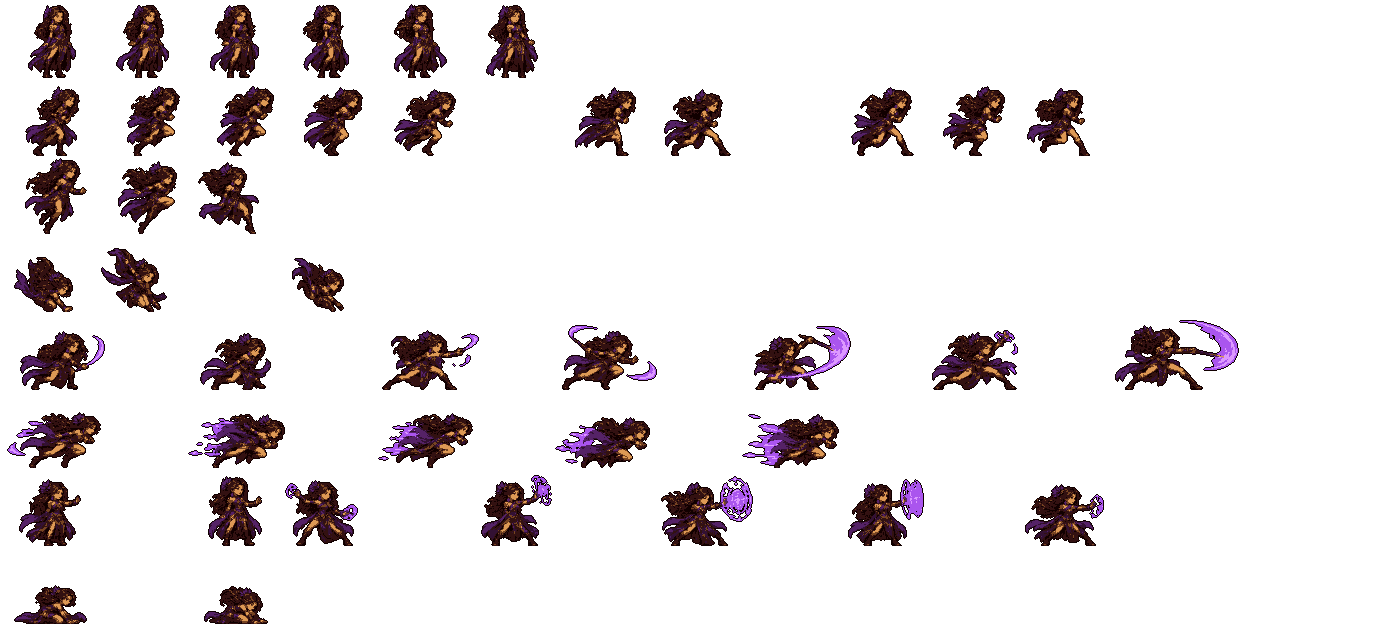
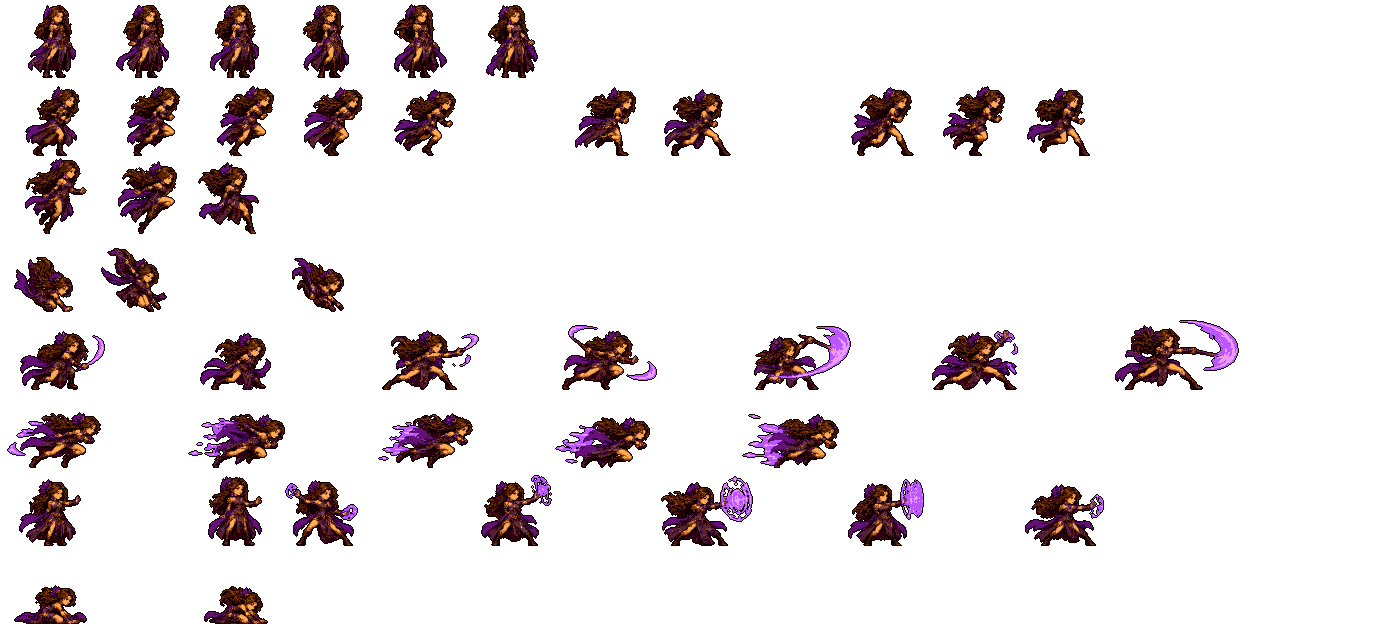
fix(sprites): brighten hero hi-8bit with a colour grade
The hi-8bit tier of the painted heroes (2x average, 8 colours) came out dark and muddy:
faces washed out and the dark coat merged into brown. Add an optional per-tier `tune`
(gamma, contrast, saturation) applied to the downscaled RGB before the palette is built,
deterministic and alpha-preserving; defaults change nothing.

Valen and Aurelia grade hi-8bit only (gamma 0.8, contrast 1.15, saturation 1.2) and use
12 hi-8bit colours. hi-16bit sheets are byte-identical to before.

diff --git a/scripts/__tests__/heroPainted.test.ts b/scripts/__tests__/heroPainted.test.ts
@@ -7,7 +7,7 @@ import { defineHeroSprite } from "../sprites/defineHeroSprite";
 import { measure } from "../sprites/frameStats";
 import { extractPaintedFrames, footColumn, loadPaintedFiles, paletteOf, renderPaintedHero } from "../sprites/paintedHero";
 import { TRANSPARENT } from "../sprites/pixelCanvas";
-import { buildPalette, downscale2x, remapColor, thresholdAlpha, unpack } from "../sprites/quantize";
+import { buildPalette, type ColorTune, downscale2x, remapColor, thresholdAlpha, tuneColors, unpack } from "../sprites/quantize";
 import sampleHero from "../sprites/__fixtures__/sample_hero";
 import {
   aPaintedHero,
@@ -332,5 +332,102 @@ describe("painted hero hooks and contracts", () => {
 
     // Assert
     expect([...half.data]).toEqual([150, 0, 0, 128]);
+  });
+});
+
+describe("painted hero colour tuning", () => {
+  const grey = (value: number) => ({ width: 1, height: 1, data: new Uint8Array([value, value, value, 255]) });
+  const tuned = (tune: { hi8bit?: ColorTune; hi16bit?: ColorTune }) => aPaintedHero({ tune });
+
+  it("should produce identical hi-8bit bytes when a tuned hero is compiled twice", () => {
+    // Arrange
+    const def = tuned({ hi8bit: { gamma: 0.8, contrast: 1.15, saturation: 1.2 } });
+
+    // Act
+    const first = compile(def);
+    const second = compile(def);
+
+    // Assert
+    expect(Buffer.compare(second.hi8bitPng, first.hi8bitPng)).toBe(0);
+    expect(second.metaJson).toBe(first.metaJson);
+  });
+
+  it("should brighten the mid tones with a gamma below one and keep black and white", () => {
+    // Arrange
+    const mid = grey(100);
+    const black = { width: 1, height: 1, data: new Uint8Array([0, 0, 0, 255]) };
+    const white = { width: 1, height: 1, data: new Uint8Array([255, 255, 255, 255]) };
+
+    // Act
+    const brighter = tuneColors(mid, { gamma: 0.8 }).data[0];
+    const darker = tuneColors(mid, { gamma: 1.25 }).data[0];
+
+    // Assert
+    expect(brighter).toBeGreaterThan(100);
+    expect(darker).toBeLessThan(100);
+    expect(tuneColors(black, { gamma: 0.8 }).data[0]).toBe(0);
+    expect(tuneColors(white, { gamma: 0.8 }).data[0]).toBe(255);
+  });
+
+  it("should spread colours away from mid grey with contrast and collapse them with saturation zero", () => {
+    // Arrange
+    const light = grey(200);
+    const vivid = { width: 1, height: 1, data: new Uint8Array([200, 100, 50, 255]) };
+
+    // Act
+    const stretched = tuneColors(light, { contrast: 1.5 }).data[0];
+    const flat = tuneColors(vivid, { saturation: 0 });
+
+    // Assert
+    expect(stretched).toBeGreaterThan(200);
+    expect(flat.data[0]).toBe(flat.data[1]);
+    expect(flat.data[1]).toBe(flat.data[2]);
+  });
+
+  it("should leave the alpha channel and the image untouched when no option is set", () => {
+    // Arrange
+    const image = { width: 1, height: 1, data: new Uint8Array([10, 20, 30, 77]) };
+
+    // Act
+    const same = tuneColors(image, {});
+    const explicit = tuneColors(image, { gamma: 1, contrast: 1, saturation: 1 });
+
+    // Assert
+    expect(same).toBe(image);
+    expect(explicit).toBe(image);
+  });
+
+  it("should give the same sheets as an untuned hero when every tune value is the default", () => {
+    // Arrange
+    const plain = compile();
+
+    // Act
+    const defaults = compile(tuned({ hi8bit: {}, hi16bit: { gamma: 1, contrast: 1, saturation: 1 } }));
+
+    // Assert
+    expect(Buffer.compare(defaults.hi8bitPng, plain.hi8bitPng)).toBe(0);
+    expect(Buffer.compare(defaults.hi16bitPng, plain.hi16bitPng)).toBe(0);
+  });
+
+  it("should grade only the hi-8bit tier and leave the hi-16bit sheet byte-identical", () => {
+    // Arrange
+    const plain = compile();
+
+    // Act
+    const graded = compile(tuned({ hi8bit: { gamma: 0.8, contrast: 1.15, saturation: 1.2 } }));
+
+    // Assert
+    expect(Buffer.compare(graded.hi16bitPng, plain.hi16bitPng)).toBe(0);
+    expect(Buffer.compare(graded.hi8bitPng, plain.hi8bitPng)).not.toBe(0);
+  });
+
+  it("should reject a grade with a non-positive gamma or a negative contrast", () => {
+    // Arrange & Act
+    const badGamma = () => tuned({ hi8bit: { gamma: 0 } });
+    const badContrast = () => tuned({ hi8bit: { contrast: -1 } });
+
+    // Assert
+    expect(badGamma).toThrow(/source.tune.hi8bit needs gamma > 0/);
+    expect(badContrast).toThrow(/source.tune.hi8bit needs gamma > 0/);
   });
 });

diff --git a/scripts/sprites/quantize.ts b/scripts/sprites/quantize.ts
@@ -26,6 +26,19 @@ export interface HueRemap {
   saturation?: number;
 }
 
+/**
+ * colour grading of one tier's painted pixels, applied after the downscale and before the palette is built. a missing
+ * or default value leaves that step out, so `{}` changes nothing. applied in the order saturation, contrast, gamma.
+ */
+export interface ColorTune {
+  /** power of each channel (0..1 scale): below 1 brightens the mid tones, above 1 darkens them. default 1. */
+  gamma?: number;
+  /** stretch around mid grey (128): above 1 adds contrast, 0 flattens to grey. default 1. */
+  contrast?: number;
+  /** distance from the luma: 0 is greyscale, 1 unchanged, above 1 more vivid. default 1. */
+  saturation?: number;
+}
+
 export type Rgb = [number, number, number];
 
 export const unpack = (rgb: number): Rgb => [(rgb >> 16) & 0xff, (rgb >> 8) & 0xff, rgb & 0xff];
@@ -77,6 +90,27 @@ export function downscale2x(image: RgbaImage): RgbaImage {
     }
   }
   return { width, height, data };
+}
+
+const clampByte = (value: number): number => Math.min(255, Math.max(0, Math.round(value)));
+
+/** grades the rgb of an image with saturation, contrast and gamma; alpha is kept. returns the input itself when nothing is set. */
+export function tuneColors(image: RgbaImage, tune: ColorTune): RgbaImage {
+  const gamma = tune.gamma ?? 1;
+  const contrast = tune.contrast ?? 1;
+  const saturation = tune.saturation ?? 1;
+  if (gamma === 1 && contrast === 1 && saturation === 1) return image;
+  const data = new Uint8Array(image.data);
+  for (let i = 0; i < data.length; i += 4) {
+    const luma = LUMA[0] * data[i] + LUMA[1] * data[i + 1] + LUMA[2] * data[i + 2];
+    for (let c = 0; c < 3; c++) {
+      const saturated = luma + (data[i + c] - luma) * saturation;
+      const contrasted = (saturated - 128) * contrast + 128;
+      const unit = Math.min(1, Math.max(0, contrasted / 255));
+      data[i + c] = clampByte(255 * unit ** gamma);
+    }
+  }
+  return { width: image.width, height: image.height, data };
 }
 
 /** Packed 0xRRGGBB for opaque pixels (alpha >= 50 %), TRANSPARENT otherwise. */

diff --git a/scripts/sprites/paintedHero.ts b/scripts/sprites/paintedHero.ts
@@ -19,9 +19,11 @@ import {
   ALPHA_CUTOFF,
   applyPalette,
   buildPalette,
+  type ColorTune,
   downscale2x,
   remapColor,
   thresholdAlpha,
+  tuneColors,
 } from "./quantize";
 import { toHex } from "./colors";
 import type { Tier } from "./types";
@@ -231,10 +233,20 @@ export function renderPaintedHero(def: HeroSpriteDefinition, grid: HeroGrid, fil
   const fitted = fitPaintedGrid(grid, frames);
   const cell = heroCell(fitted, "hi16bit");
   const slots16 = frames.map((f) => ({ anim: f.anim, frame: f.frame, span: f.span, rgba: placeFrame(f, cell, fitted.anchorX ?? 0) }));
-  const slots8 = slots16.map((slot) => ({ ...slot, rgba: downscale2x(slot.rgba) }));
-  const hi16bit = renderTier(def, source, fitted, "hi16bit", slots16);
+  // hi-8bit is always derived from the untuned 1:1 frames, so grading one tier never changes the other one's shape.
+  const slots8 = gradeSlots(
+    slots16.map((slot) => ({ ...slot, rgba: downscale2x(slot.rgba) })),
+    source.tune?.hi8bit,
+  );
+  const hi16bit = renderTier(def, source, fitted, "hi16bit", gradeSlots(slots16, source.tune?.hi16bit));
   const hi8bit = renderTier(def, source, fitted, "hi8bit", slots8);
   return { grid: fitted, hi8bit, hi16bit };
+}
+
+/** applies a tier's colour grade to every slot; without a grade the slots are returned as they are. */
+function gradeSlots<T extends Slot & { rgba: RgbaImage }>(slots: readonly T[], tune: ColorTune | undefined): T[] {
+  if (!tune) return [...slots];
+  return slots.map((slot) => ({ ...slot, rgba: tuneColors(slot.rgba, tune) }));
 }
 
 /** Distinct colours used by a rendered tier, sorted by value. */

diff --git a/scripts/sprites/heroTypes.ts b/scripts/sprites/heroTypes.ts
@@ -1,6 +1,6 @@
 import type { RgbaImage } from "../lib/png";
 import type { PixelCanvas } from "./pixelCanvas";
-import type { HueRemap } from "./quantize";
+import type { ColorTune, HueRemap } from "./quantize";
 import type { Tier } from "./types";
 
 export interface HeroAnimationGrid {
@@ -47,6 +47,11 @@ export interface PaintedSource {
   dither?: false;
   /** Hue remaps applied to the painted colours before the palettes are built (first match wins). */
   remap?: HueRemap[];
+  /**
+   * colour grading per tier, applied to that tier's pixels before its palette is built. hi-8bit is graded after the
+   * 2x downscale (readability at low depth); hi-16bit is graded on the 1:1 frames. omitted or default values change nothing.
+   */
+  tune?: { hi8bit?: ColorTune; hi16bit?: ColorTune };
   /** Painted sheet to use instead of `<id>_level_1_high_packed.png` (tests). */
   image?: RgbaImage;
   /** Painted frame rects to use instead of the `frameRects` of the packed meta (tests). */

diff --git a/scripts/sprites/heroes/valen.ts b/scripts/sprites/heroes/valen.ts
@@ -6,10 +6,12 @@ import { defineHeroSprite } from "../defineHeroSprite";
 // (minValue keeps the dark shades out of the remap).
 export default defineHeroSprite({
   id: "valen",
-  description: "Valen, the scarlet-blade duelist, quantized from his painted frames to a hard-edged 16-colour hi-16bit and 8-colour hi-8bit palette.",
+  description: "Valen, the scarlet-blade duelist, quantized from his painted frames to a hard-edged 16-colour hi-16bit and 12-colour hi-8bit palette.",
   source: {
     kind: "painted",
-    colors: { hi16bit: 16, hi8bit: 8 },
+    colors: { hi16bit: 16, hi8bit: 12 },
     remap: [{ hue: [180, 260], toHue: 40, minSaturation: 0.3, minValue: 0.45 }],
+    // hi-8bit only: brighter mids so the skin reads, a firmer contrast so the navy coat stands off the brown boots.
+    tune: { hi8bit: { gamma: 0.8, contrast: 1.15, saturation: 1.2 } },
   },
 });

diff --git a/scripts/sprites/heroes/aurelia.ts b/scripts/sprites/heroes/aurelia.ts
@@ -4,9 +4,11 @@ import { defineHeroSprite } from "../defineHeroSprite";
 // Her painted magic is purple and the purple also dresses her, so there is no remap: colours stay as painted.
 export default defineHeroSprite({
   id: "aurelia",
-  description: "Aurelia, the arcane duelist, quantized from her painted frames to a hard-edged 16-colour hi-16bit and 8-colour hi-8bit palette.",
+  description: "Aurelia, the arcane duelist, quantized from her painted frames to a hard-edged 16-colour hi-16bit and 12-colour hi-8bit palette.",
   source: {
     kind: "painted",
-    colors: { hi16bit: 16, hi8bit: 8 },
+    colors: { hi16bit: 16, hi8bit: 12 },
+    // hi-8bit only: brighter mids so the skin reads, a firmer contrast so the purple dress stands off the brown hair.
+    tune: { hi8bit: { gamma: 0.8, contrast: 1.15, saturation: 1.2 } },
   },
 });

diff --git a/scripts/sprites/defineHeroSprite.ts b/scripts/sprites/defineHeroSprite.ts
@@ -16,6 +16,12 @@ function assertPaintedSource(id: string, def: HeroSpriteDefinition): void {
     throw spriteError(`Hero "${id}": dithering is not implemented, leave source.dither unset or false.`, { id });
   }
   for (const tier of ["hi8bit", "hi16bit"] as const) {
+    const tune = source.tune?.[tier];
+    if (tune !== undefined) {
+      const { gamma = 1, contrast = 1, saturation = 1 } = tune;
+      const valid = [gamma, contrast, saturation].every(Number.isFinite) && gamma > 0 && contrast >= 0 && saturation >= 0;
+      if (!valid) throw spriteError(`Hero "${id}": source.tune.${tier} needs gamma > 0, contrast >= 0 and saturation >= 0.`, { id, tier });
+    }
     if (draw?.[tier] !== undefined && typeof draw[tier] !== "function") {
       throw spriteError(`Hero "${id}": draw.${tier} must be a function.`, { id, tier });
     }

diff --git a/scripts/sprites/README.md b/scripts/sprites/README.md
@@ -156,6 +156,8 @@ Valen and Aurelia set `source: { kind: "painted", colors, remap? }` in `defineHe
 - Optional `draw` hooks run on top of the quantized frame for touch-ups.
 - Output is PNG (see Output above); enemies are unaffected.
 
+Optional `tune` (`{ hi8bit?, hi16bit? }`, each `{ gamma?, contrast?, saturation? }`) grades one tier's RGB before its palette is built: saturation first (0 is greyscale), then contrast around mid grey, then gamma (below 1 brightens the mid tones), all deterministic and alpha-preserving; omitted or default values change nothing. Valen and Aurelia grade hi-8bit only (`gamma` 0.8, `contrast` 1.15, `saturation` 1.2) with 12 hi-8bit colours instead of 8: the plain 2x average and 8-colour palette were too dark and muddy, the faces washed out and the dark coat merged into brown. hi-16bit is never graded for them, so its sheets stay byte-identical. Compare with `bun scripts/sprites/compile.ts valen aurelia --preview <dir>`.
+
 `bun scripts/sprites/compile.ts <id>` looks the id up in `enemies/` first and `heroes/` second; `--all`, `--all --check` and `--preview <dir>` cover both kinds.
 
 ## Tilesets
